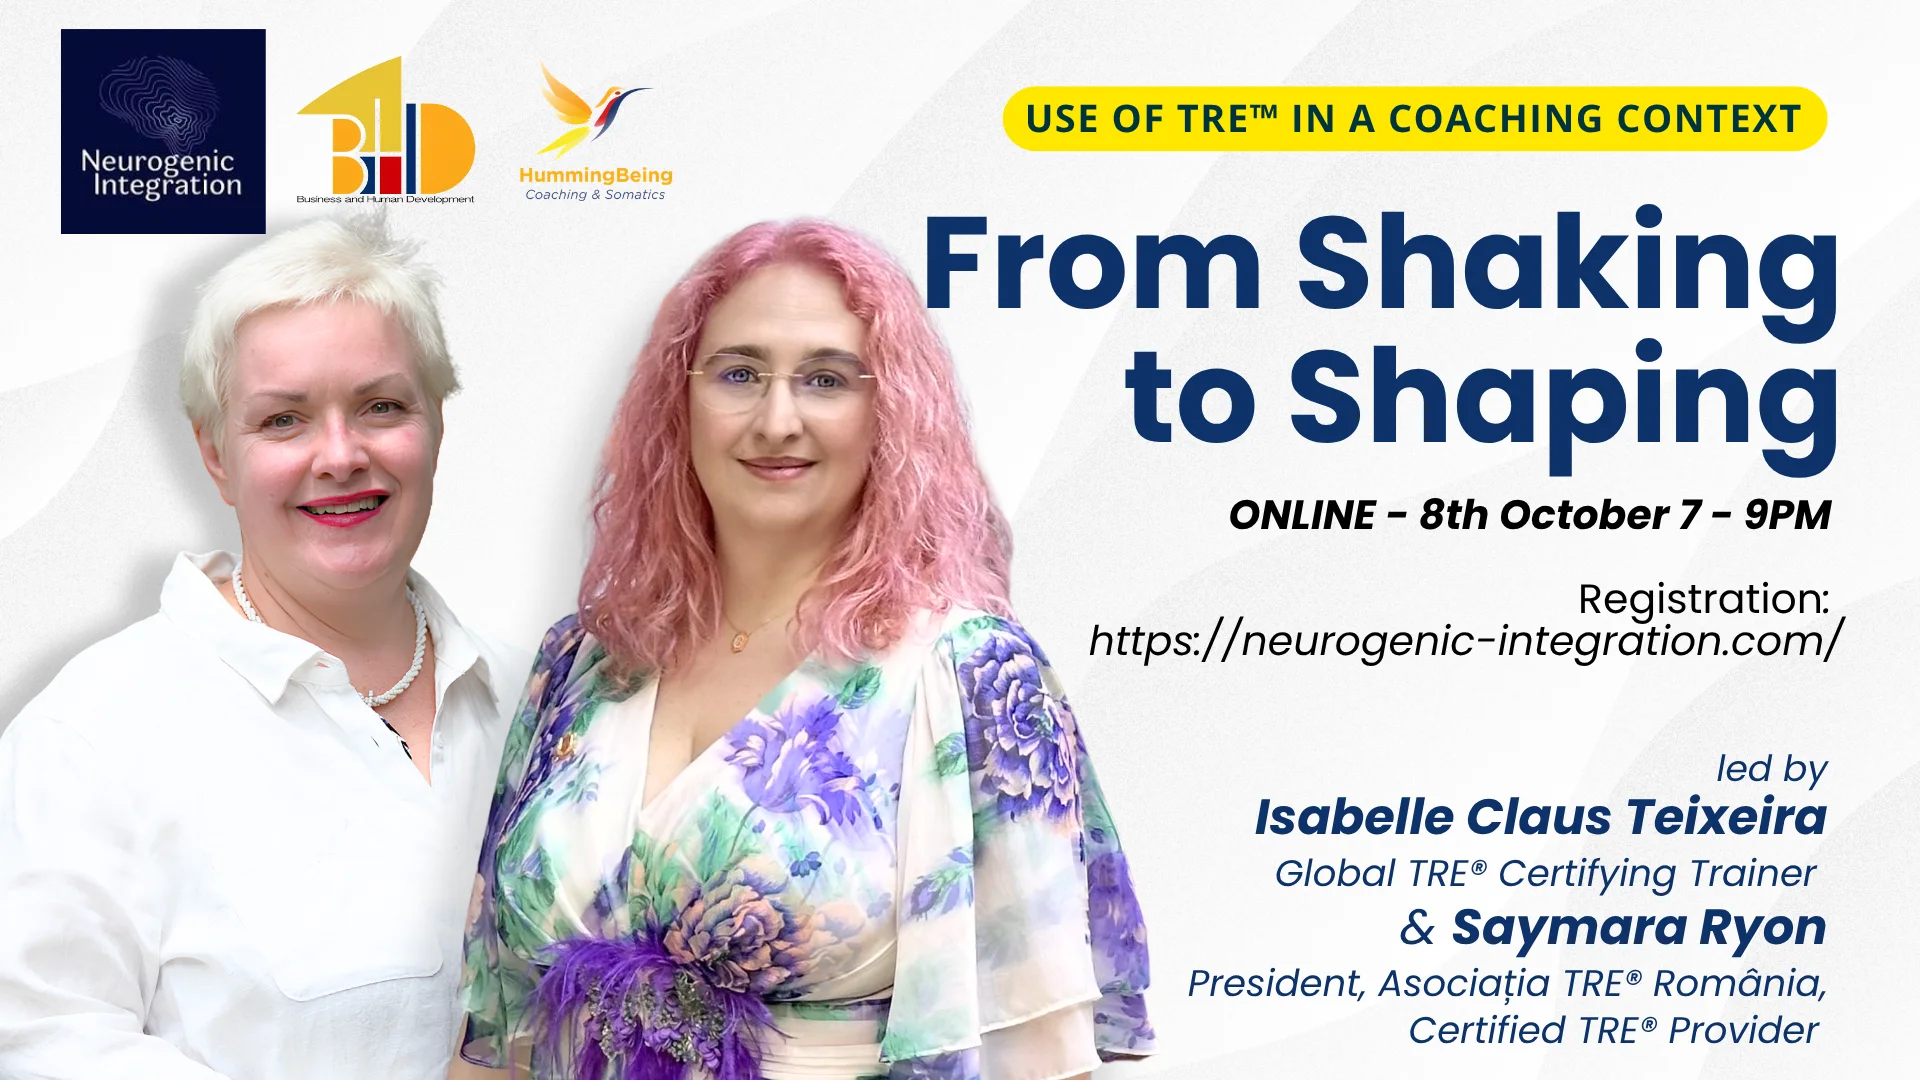
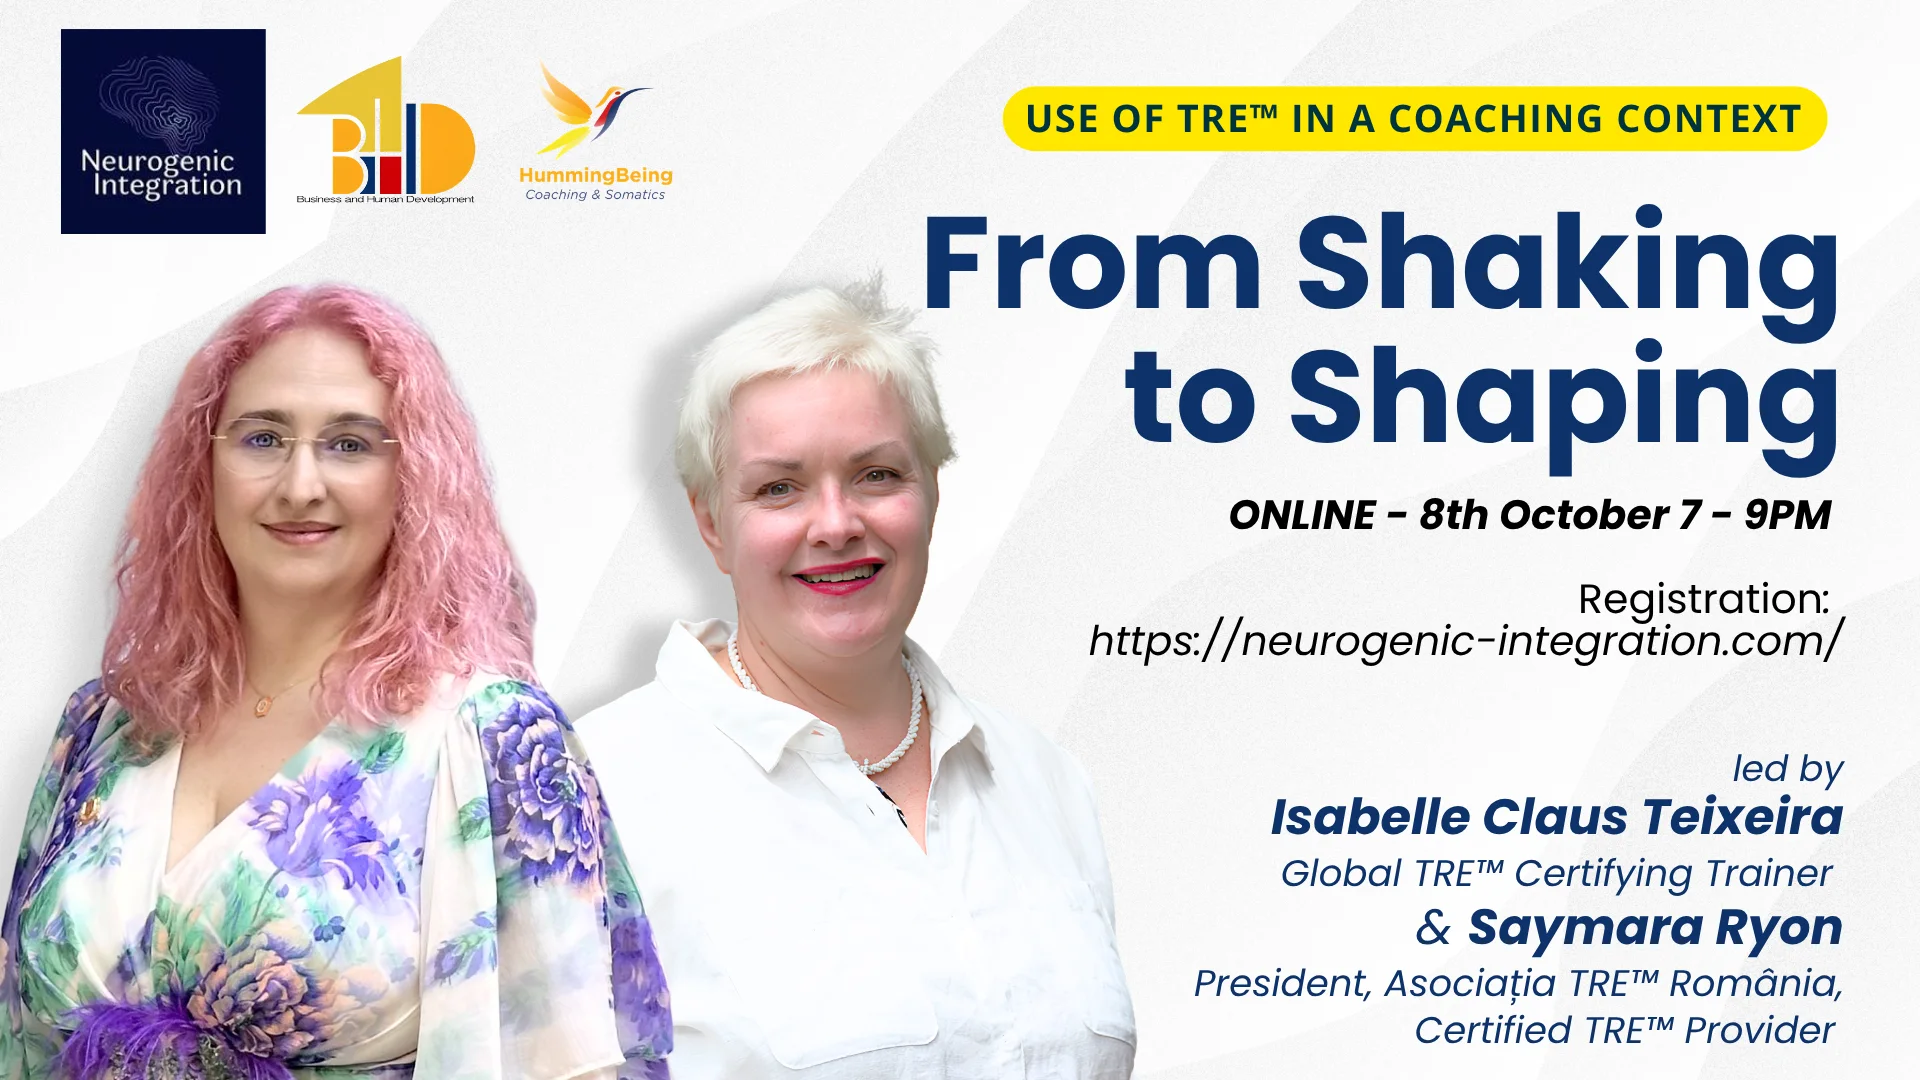
Oct 8 online session poster: TM-corrected artwork
Last of the seven event graphics - TRE now carries TM in all bylines. Refs bumped to v2 on the event page and events card.

diff --git a/event-shaking-shaping-oct8.html b/event-shaking-shaping-oct8.html
@@ -29,7 +29,7 @@ j=d.createElement(s),dl=l!='dataLayer'?'&l='+l:'';j.async=true;j.src=
 <meta property="og:title" content="From Shaking to Shaping &mdash; Live Online Session | 8 October 2026 | BHD Asia"/>
 <meta property="og:description" content="Use of TRE&trade; in a coaching context — with Isabelle Claus Teixeira &amp; Saymara Ryon (President, Asociația TRE™ România). Online, 8 October 2026, 7–9PM."/>
 <meta property="og:url" content="https://bhdasia.com/event-shaking-shaping-oct8.html"/>
-<meta property="og:image" content="https://bhdasia.com/event-shaking-oct8.webp"/>
+<meta property="og:image" content="https://bhdasia.com/event-shaking-oct8.webp?v=2"/>
 <meta name="twitter:card" content="summary_large_image"/>
 <meta name="twitter:title" content="From Shaking to Shaping &mdash; Live Online Session | 8 October 2026 | BHD Asia"/>
 <meta name="twitter:description" content="Use of TRE&trade; in a coaching context — online with Isabelle Claus Teixeira &amp; Saymara Ryon. 8 October 2026, 7–9PM."/>
@@ -40,7 +40,7 @@ j=d.createElement(s),dl=l!='dataLayer'?'&l='+l:'';j.async=true;j.src=
 <link rel="stylesheet" href="style.css?v=5"/>
 <link rel="stylesheet" href="event-detail.css?v=5"/>
 <script type="application/ld+json">
-{"@context":"https://schema.org","@type":"Event","name":"From Shaking to Shaping — Live Online Session","description":"Use of TRE™ in a coaching context — a live online session led by Isabelle Claus Teixeira, Global TRE™ Certifying Trainer, and Saymara Ryon, President of Asociația TRE™ România. A collaboration between Neurogenic Integration, BHD Asia and HummingBeing.","startDate":"2026-10-08","endDate":"2026-10-08","eventAttendanceMode":"https://schema.org/OnlineEventAttendanceMode","eventStatus":"https://schema.org/EventScheduled","location":{"@type":"VirtualLocation","url":"https://neurogenic-integration.com/"},"image":"https://bhdasia.com/event-shaking-oct8.webp","organizer":{"@type":"Organization","name":"BHD Asia","url":"https://bhdasia.com/"},"performer":[{"@type":"Person","name":"Isabelle Claus Teixeira"},{"@type":"Person","name":"Saymara Ryon","url":"https://www.atelierdesuflet.ro/"}],"url":"https://bhdasia.com/event-shaking-shaping-oct8.html"}
+{"@context":"https://schema.org","@type":"Event","name":"From Shaking to Shaping — Live Online Session","description":"Use of TRE™ in a coaching context — a live online session led by Isabelle Claus Teixeira, Global TRE™ Certifying Trainer, and Saymara Ryon, President of Asociația TRE™ România. A collaboration between Neurogenic Integration, BHD Asia and HummingBeing.","startDate":"2026-10-08","endDate":"2026-10-08","eventAttendanceMode":"https://schema.org/OnlineEventAttendanceMode","eventStatus":"https://schema.org/EventScheduled","location":{"@type":"VirtualLocation","url":"https://neurogenic-integration.com/"},"image":"https://bhdasia.com/event-shaking-oct8.webp?v=2","organizer":{"@type":"Organization","name":"BHD Asia","url":"https://bhdasia.com/"},"performer":[{"@type":"Person","name":"Isabelle Claus Teixeira"},{"@type":"Person","name":"Saymara Ryon","url":"https://www.atelierdesuflet.ro/"}],"url":"https://bhdasia.com/event-shaking-shaping-oct8.html"}
 </script>
 </head>
 <body class="page et_fixed_nav et_divi_theme">
@@ -78,7 +78,7 @@ height="0" width="0" style="display:none;visibility:hidden"></iframe></noscript>
 <div id="et-main-area" tabindex="-1">
 
 <div class="evt-hero">
-  <img class="evt-hero-img" src="event-shaking-oct8.webp" alt="From Shaking to Shaping — live online session with Isabelle Claus Teixeira and Saymara Ryon, 8 October 2026" width="1400" height="700" loading="eager"/>
+  <img class="evt-hero-img" src="event-shaking-oct8.webp?v=2" alt="From Shaking to Shaping — live online session with Isabelle Claus Teixeira and Saymara Ryon, 8 October 2026" width="1400" height="700" loading="eager"/>
   <div class="evt-hero-overlay"></div>
   <div class="evt-hero-inner">
     <div class="container">

diff --git a/events.html b/events.html
@@ -285,7 +285,7 @@ height="0" width="0" style="display:none;visibility:hidden"></iframe></noscript>
       <!-- EVENT 5: From Shaking to Shaping Online (Oct 8) -->
       <div class="evt-card" data-cat="romania online">
         <div class="ec-img">
-          <img src="event-shaking-oct8.webp" alt="From Shaking to Shaping — live online session, 8 October 2026" width="1920" height="1080" loading="lazy"/>
+          <img src="event-shaking-oct8.webp?v=2" alt="From Shaking to Shaping — live online session, 8 October 2026" width="1920" height="1080" loading="lazy"/>
         </div>
         <div class="ec-body">
           <div class="ec-tags"><span class="ec-loc">Online</span><span class="ec-type">TRE&trade; in Coaching</span></div>
